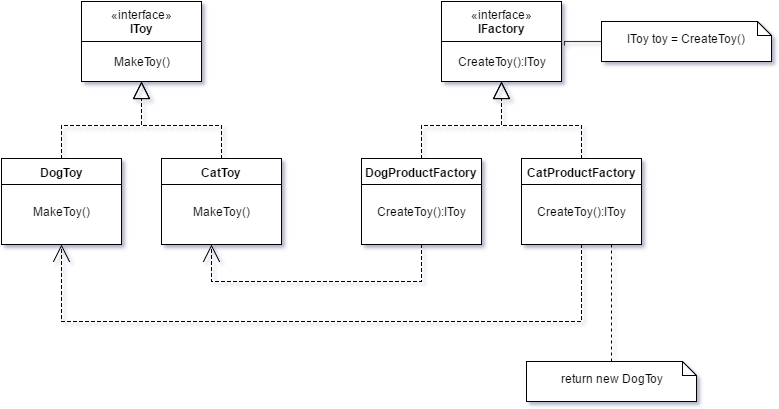
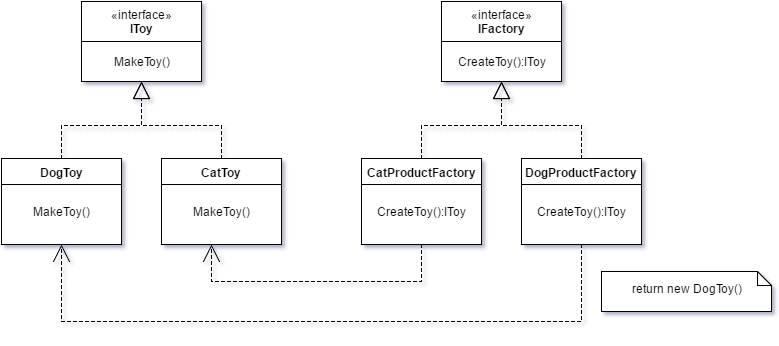
update UML

diff --git a/_posts/2016-05-08-CSharp_DesignPattern_AbstractFactory.md b/_posts/2016-05-08-CSharp_DesignPattern_AbstractFactory.md
@@ -2,7 +2,7 @@
 layout: post
 title: "C# Abstract Factory Design Pattern"
 author: "Iverson Hong"
-modified: 2016-05-08
+modified: 2016-05-09
 tags: [C#, Design Pattern]
 ---
 
@@ -11,6 +11,10 @@ tags: [C#, Design Pattern]
 ## Abstract Factory Pattern ##
 
 其實就是工廠方法的再延伸，工廠方法內只會有一項產品(玩具)；而抽象工廠則是許多產品(除了玩具之外，現在還有食品)，而用戶端使用時，先建立具體的工廠(狗工廠或貓工廠)，利用此工廠來建立特定的產品物件(玩具或食品)。
+
+### UML架構 ###
+
+![](..\images\postImage\2016-05-08\AbstractFactory.png)
 
 原來的玩具介面以其衍生類別**不**需要修改:
 

diff --git a/_posts/2016-05-02-CSharp_DesignPattern_SimpleFactory.md b/_posts/2016-05-02-CSharp_DesignPattern_SimpleFactory.md
@@ -2,7 +2,7 @@
 layout: post
 title: "C# Simple Factory Design Pattern"
 author: "Iverson Hong"
-modified: 2016-05-06
+modified: 2016-05-09
 tags: [C#, Design Pattern]
 ---
 
@@ -57,7 +57,7 @@ cat.MakeToy();
 
 ### UML架構 ###
 
-![](..\images\postImage\2016-05-02\Simple Factory.png)
+![](..\images\postImage\2016-05-02\SimpleFactory.png)
 
 ### 抽出共用的介面 ###
 

diff --git a/_posts/2016-05-03-CSharp_DesignPattern_FactoryMethod.md b/_posts/2016-05-03-CSharp_DesignPattern_FactoryMethod.md
@@ -2,7 +2,7 @@
 layout: post
 title: "C# Factory Method Design Pattern"
 author: "Iverson Hong"
-modified: 2016-05-06
+modified: 2016-05-09
 tags: [C#, Design Pattern]
 ---
 
